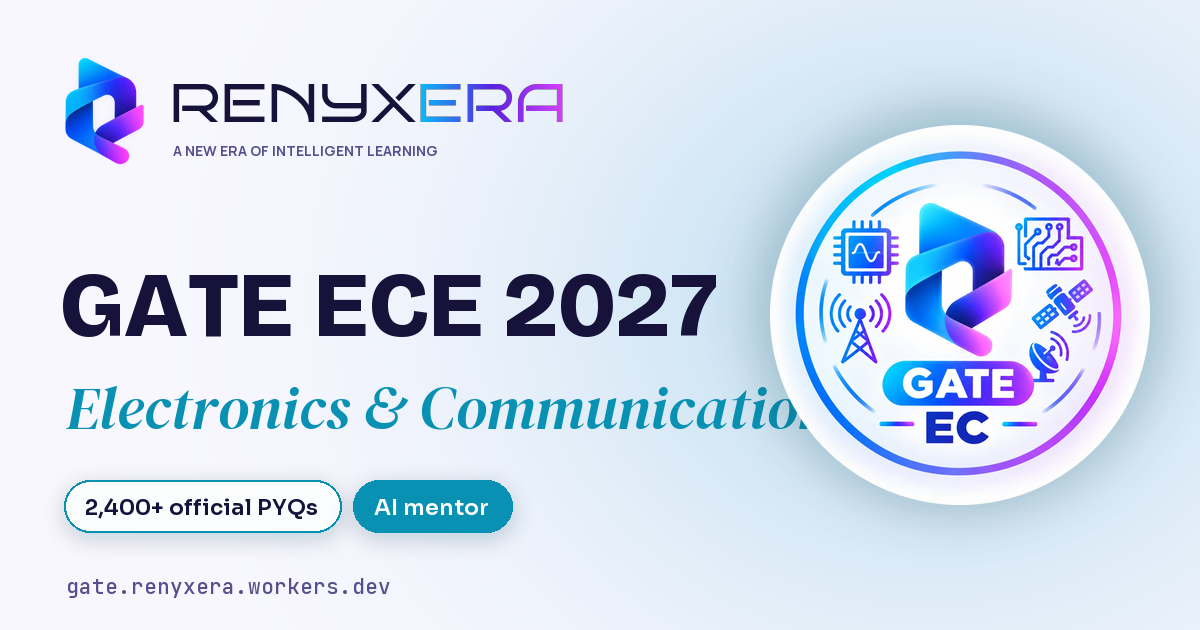
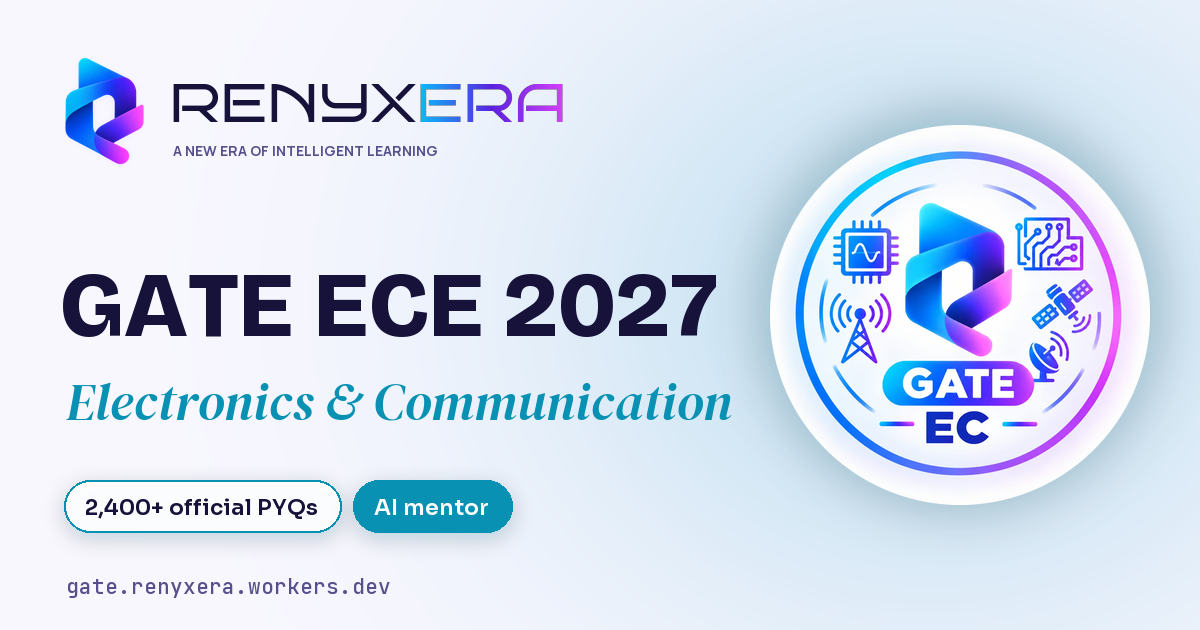
R18 U1: share card share-base + names, tidy stack deck, no navbar rings, dot-grid texture, UI upgrade plan

Changed region(s): [[0.0617, 0.6032, 0.6783, 0.6937]]

diff --git a/components/growth/share-card.tsx b/components/growth/share-card.tsx
@@ -14,8 +14,8 @@ import { track } from "@/lib/growth/track";
  * anywhere. The image is drawn in the browser, then shared as a file (or downloaded).
  */
 const BRANCH_SLUGS = [
-  { paper: "CS", slug: "gate-cse" }, { paper: "EC", slug: "gate-ece" }, { paper: "EE", slug: "gate-ee" },
-  { paper: "ME", slug: "gate-me" }, { paper: "CE", slug: "gate-ce" }, { paper: "DA", slug: "gate-da" },
+  { paper: "CS", slug: "gate-cse", short: "CSE" }, { paper: "EC", slug: "gate-ece", short: "ECE" }, { paper: "EE", slug: "gate-ee", short: "EE" },
+  { paper: "ME", slug: "gate-me", short: "ME" }, { paper: "CE", slug: "gate-ce", short: "Civil" }, { paper: "DA", slug: "gate-da", short: "DA" },
 ];
 
 export function ShareCard({ link, text }: { link: string; text: string }) {
@@ -49,42 +49,42 @@ export function ShareCard({ link, text }: { link: string; text: string }) {
     const custom = parts.length > 0 || (!!avatar && onAvatar);
     // The card is the student's own branch card; the other branches are shown as small badges.
     const img = new Image();
-    img.src = `/og/${mySlug}.png`;
+    img.src = `/og/share/${mySlug}.png`;
     await img.decode();
     const c = document.createElement("canvas");
     c.width = 1200; c.height = 630;
     const g = c.getContext("2d")!;
     g.drawImage(img, 0, 0, 1200, 630);
+    const fit = (s: string, max: number) => { let t = s; while (t.length > 1 && g.measureText(t).width > max) t = t.slice(0, -2) + "…"; return t; };
+    // The share base has an empty band from y=440 down: sender bar, then one footer band.
     if (custom) {
-      // glass sender bar: avatar, name, then username and ID
-      g.save(); g.shadowColor = "rgba(99,102,241,.35)"; g.shadowBlur = 24; g.shadowOffsetY = 8;
-      g.fillStyle = "rgba(255,255,255,.95)"; g.beginPath(); g.roundRect(64, 462, 660, 96, 48); g.fill(); g.restore();
-      g.lineWidth = 3; g.strokeStyle = "#6366f1"; g.beginPath(); g.roundRect(64, 462, 660, 96, 48); g.stroke();
+      g.save(); g.shadowColor = "rgba(22,18,58,.14)"; g.shadowBlur = 22; g.shadowOffsetY = 6;
+      g.fillStyle = "#ffffff"; g.beginPath(); g.roundRect(60, 448, 660, 84, 42); g.fill(); g.restore();
+      let x = 92;
       if (avatar && onAvatar) {
         const av = new Image(); av.src = avatar; await av.decode();
-        g.save(); g.beginPath(); g.arc(112, 510, 34, 0, Math.PI * 2); g.clip();
-        const m = Math.min(av.width, av.height); g.drawImage(av, (av.width - m) / 2, (av.height - m) / 2, m, m, 78, 476, 68, 68); g.restore();
+        g.save(); g.beginPath(); g.arc(102, 490, 30, 0, Math.PI * 2); g.clip();
+        const m = Math.min(av.width, av.height); g.drawImage(av, (av.width - m) / 2, (av.height - m) / 2, m, m, 72, 460, 60, 60); g.restore();
+        x = 148;
       }
-      const x = avatar ? 164 : 96;
-      g.fillStyle = "#16123a"; g.font = "700 28px Sora, Manrope, system-ui, sans-serif";
-      g.fillText((on.name && f.name.trim()) || "Shared on RENYXERA", x, 506);
-      g.fillStyle = "#58508c"; g.font = "500 21px Sora, Manrope, system-ui, sans-serif";
-      g.fillText(parts.filter((p) => p !== (on.name && f.name.trim())).join("  ·  ").slice(0, 46), x, 538);
+      const name = (on.name && f.name.trim()) || "";
+      const rest = parts.filter((p) => p !== name).join("   ");
+      g.fillStyle = "#16123a"; g.font = "700 26px Sora, Manrope, system-ui, sans-serif";
+      g.fillText(fit(name || rest || "Preparing on RENYXERA", 690 - x), x, rest && name ? 484 : 499);
+      if (rest && name) { g.fillStyle = "#58508c"; g.font = "500 19px Sora, Manrope, system-ui, sans-serif"; g.fillText(fit(rest, 690 - x), x, 512); }
     }
-    // Other branches strip (bottom right, under the big branch logo).
-    const others = BRANCH_SLUGS.filter((b) => b.slug !== mySlug);
-    g.fillStyle = "rgba(255,255,255,.88)"; g.beginPath(); g.roundRect(760, 532, 412, 82, 41); g.fill();
-    g.fillStyle = "#58508c"; g.font = "700 14px Sora, Manrope, system-ui, sans-serif"; g.fillText("ALSO ON RENYXERA", 784, 556);
-    for (let i = 0; i < others.length; i++) {
-      const im = new Image(); im.src = `/brand/branch/${others[i].slug}.png`;
-      try { await im.decode(); g.drawImage(im, 784 + i * 74, 562, 44, 44); } catch { /* skip */ }
-    }
-    // Referral line replaces the plain URL: the friend sees what they get.
-    g.fillStyle = "#faf8ff"; g.fillRect(56, 560, 690, 50);
-    g.fillStyle = "#6d28d9"; g.font = "700 20px Sora, Manrope, system-ui, sans-serif";
-    g.fillText(`Join free with my link — bonus AI help for both of us`, 66, 584);
-    g.fillStyle = "#58508c"; g.font = "500 17px 'JetBrains Mono', ui-monospace, monospace";
-    g.fillText(link.replace(/^https?:\/\//, "").slice(0, 52), 66, 606);
+    // Footer band: referral on the left, other branches as plain names on the right.
+    g.fillStyle = "rgba(255,255,255,.82)"; g.fillRect(0, 556, 1200, 74);
+    g.fillStyle = "rgba(22,18,58,.08)"; g.fillRect(0, 556, 1200, 1);
+    g.fillStyle = "#4c1d95"; g.font = "700 20px Sora, Manrope, system-ui, sans-serif";
+    g.fillText("Join free with my link: bonus AI help for both of us", 60, 586);
+    g.fillStyle = "#58508c"; g.font = "500 16px 'JetBrains Mono', ui-monospace, monospace";
+    g.fillText(fit(link.replace(/^https?:\/\//, ""), 600), 60, 611);
+    const others = BRANCH_SLUGS.filter((b) => b.slug !== mySlug).map((b) => b.short);
+    g.textAlign = "right";
+    g.fillStyle = "#58508c"; g.font = "600 15px Sora, Manrope, system-ui, sans-serif"; g.fillText("Also on RENYXERA", 1140, 586);
+    g.fillStyle = "#16123a"; g.font = "700 19px Sora, Manrope, system-ui, sans-serif"; g.fillText(others.join("  ·  "), 1140, 611);
+    g.textAlign = "left";
     return new Promise((r) => c.toBlob((b) => r(b), "image/png"));
   };
 

diff --git a/app/globals.css b/app/globals.css
@@ -1019,7 +1019,6 @@ html.has-pseudo-fullscreen, html.has-pseudo-fullscreen body { overflow: hidden; 
 @keyframes pro-spark { 0%, 100% { opacity: 0; transform: scale(0.4) rotate(0deg); } 45% { opacity: 1; transform: scale(1) rotate(45deg); } 70% { opacity: 0; transform: scale(0.6) rotate(90deg); } }
 
 /* Pro navbar: a flowing gold hairline under the bar and a shimmering PRO badge. */
-.pro-bar .nav-cluster, .pro-bar .main-dock { border-color: transparent !important; box-shadow: 0 0 0 2px #f5b83d, 0 0 0 3px rgba(146, 64, 14, 0.18), 0 8px 22px -12px rgba(217, 119, 6, 0.55); }
 @keyframes pro-bar-flow { to { background-position: 200% 0; } }
 .pro-badge {
   position: relative; overflow: hidden; display: inline-flex; align-items: center; padding: 1px 6px 1px 7px; border-radius: 6px;
@@ -1047,7 +1046,6 @@ html.has-pseudo-fullscreen, html.has-pseudo-fullscreen body { overflow: hidden; 
 .hero-avatar.tier-pro > .hero-avatar-ring { background: conic-gradient(from var(--ang), #fde68a, #f59e0b, #fff7c2, #d97706, #fbbf24, #fde68a) !important; opacity: 1 !important; }
 .hero-avatar.tier-plus > .hero-avatar-ring { background: conic-gradient(from var(--ang), #f9fafb, #9ca3af, #ffffff, #6b7280, #d1d5db, #f9fafb) !important; opacity: 1 !important; }
 .pro-crown.is-silver .pro-crown-svg { filter: drop-shadow(0 1px 0.5px rgba(55, 65, 81, 0.55)); }
-.plus-bar .nav-cluster, .plus-bar .main-dock { border-color: transparent !important; box-shadow: 0 0 0 2px #b8bec8, 0 0 0 3px rgba(55, 65, 81, 0.16), 0 8px 22px -12px rgba(71, 85, 105, 0.5); }
 @media (prefers-reduced-motion: reduce) {
   .avatar-fx.is-pro .avatar-ring, .pro-crown-glint, .pro-spark,  .pro-badge::after, .avatar-fx.is-plus .avatar-ring { animation: none; }
 }
@@ -1183,3 +1181,18 @@ mjx-container[display="true"] {
   color: color-mix(in srgb, var(--text-primary) 4%, transparent); pointer-events: none; white-space: nowrap; z-index: 0;
 }
 @media (prefers-reduced-motion: reduce) { .card-pastel, .card-pastel:hover { transition: none; transform: none; } }
+
+/* R18 owner feedback (27 Oct): no gold/silver rings on the navbar or avatar; the crown and the PRO/PLUS badge stay. */
+.avatar-fx.is-pro .avatar-ring, .avatar-fx.is-plus .avatar-ring { opacity: 0 !important; animation: none !important; }
+
+/* App-wide texture: a faint dot grid laid over the shell's gradient, fading towards the bottom. */
+.ambient-gradient::before {
+  content: ""; position: absolute; inset: 0; z-index: -1; pointer-events: none;
+  background-image: radial-gradient(color-mix(in srgb, var(--text-primary) 13%, transparent) 1px, transparent 1.4px);
+  background-size: 24px 24px;
+  mask-image: linear-gradient(to bottom, #000 0%, rgba(0,0,0,.55) 55%, transparent 100%);
+  -webkit-mask-image: linear-gradient(to bottom, #000 0%, rgba(0,0,0,.55) 55%, transparent 100%);
+}
+.dark .ambient-gradient::before { background-image: radial-gradient(color-mix(in srgb, white 9%, transparent) 1px, transparent 1.4px); }
+/* isolate makes the shell its own stacking context, so z-index -1 sits above its background but under all content */
+.ambient-gradient { isolation: isolate; }

diff --git a/components/dashboard/stack-cards.tsx b/components/dashboard/stack-cards.tsx
@@ -20,7 +20,9 @@ export function StackCards({ items, top = 76, step = 14 }: { items: ReactNode[];
   const reduce = useReducedMotion();
   const wrap = useRef<HTMLDivElement>(null);
   const refs = useRef<(HTMLDivElement | null)[]>([]);
-  const [scales, setScales] = useState<number[]>(() => items.map(() => 1));
+  // p per card: 0 = fully visible, 1 = fully covered by the next card.
+  const [prog, setProg] = useState<number[]>(() => items.map(() => 0));
+  const [heights, setHeights] = useState<number[]>(() => items.map(() => 0));
 
   useEffect(() => {
     if (reduce) return;
@@ -31,13 +33,12 @@ export function StackCards({ items, top = 76, step = 14 }: { items: ReactNode[];
       const els = refs.current;
       const next = els.map((el, i) => {
         const nxt = els[i + 1];
-        if (!el || !nxt) return 1;
+        if (!el || !nxt) return 0;
         const a = el.getBoundingClientRect(), b = nxt.getBoundingClientRect();
-        // 0 when the next card is a card-height away, 1 when it has fully covered this one.
-        const p = Math.min(1, Math.max(0, (a.bottom - b.top) / Math.max(1, a.height)));
-        return 1 - 0.1 * p;
+        return Math.min(1, Math.max(0, (a.bottom - b.top) / Math.max(1, a.height)));
       });
-      setScales((old) => (old.every((v, i) => Math.abs(v - next[i]) < 0.002) ? old : next));
+      setProg((old) => (old.every((v, i) => Math.abs(v - next[i]) < 0.003) ? old : next));
+      setHeights(els.map((el) => el?.offsetHeight ?? 0));
     };
     const on = () => { if (!raf) raf = requestAnimationFrame(update); };
     update();
@@ -51,10 +52,18 @@ export function StackCards({ items, top = 76, step = 14 }: { items: ReactNode[];
     <div ref={wrap} className="relative">
       {items.map((it, i) => (
         <div key={i} ref={(el) => { refs.current[i] = el; }} className="sticky pb-6" style={{ top: top + i * step, zIndex: i + 1 }}>
-          <div className="origin-top transition-[filter] duration-200 will-change-transform"
-            style={{ transform: `scale(${scales[i] ?? 1})`, filter: `brightness(${0.85 + 0.15 * ((scales[i] ?? 1) - 0.9) / 0.1})` }}>
-            {it}
-          </div>
+          {(() => {
+            const p = prog[i] ?? 0;
+            // Covered cards shrink, and are clipped to a thin top edge so only a tidy lip peeks out
+            // above the next card (no half-hidden content showing below it).
+            const keep = Math.max(step + 10, (heights[i] || 0) * (1 - p));
+            return (
+              <div className="origin-top will-change-transform"
+                style={{ transform: `scale(${1 - 0.06 * p})`, clipPath: p > 0 ? `inset(0 0 calc(100% - ${keep}px) 0 round var(--card-radius))` : undefined }}>
+                <div style={{ filter: p > 0 ? `brightness(${1 - 0.08 * p}) saturate(${1 - 0.3 * p})` : undefined }}>{it}</div>
+              </div>
+            );
+          })()}
         </div>
       ))}
       {/* room for the last card to finish pinning */}

diff --git a/scripts/make-og.py b/scripts/make-og.py
@@ -84,23 +84,35 @@ def pill(im, accent, a, b):
         im.alpha_composite(ov); d = ImageDraw.Draw(im)
         d.text((x + w // 2, y + 27), text, font=f, fill="white" if solid else (22, 18, 58), anchor="mm"); x += w + 12
 
-def card(slug, title, sub, logo, accent):
+def fit_serif(d, text, size, max_w):
+    # shrink the branch name until it ends before the round branch logo
+    while size > 30:
+        f = ImageFont.truetype(FD + "DMSerif.ttf", size)
+        if d.textlength(text, font=f) <= max_w: return f
+        size -= 2
+    return ImageFont.truetype(FD + "DMSerif.ttf", size)
+
+def card(slug, title, sub, logo, accent, share=False):
     im = background(accent).convert("RGBA")
     d = ImageDraw.Draw(im)
     im.alpha_composite(lock, (64, 56))
     d.text((60, 250), title, font=brico(92, 800), fill=(22, 18, 58))
-    d.text((66, 366), sub, font=ImageFont.truetype(FD + "DMSerif.ttf", 60), fill=hexrgb(accent))
-    pill(im, accent, "2,400+ official PYQs", "AI mentor")
-    d = ImageDraw.Draw(im)
-    d.text((66, 572), "gate.renyxera.workers.dev", font=mono(21, 500), fill=(88, 80, 140))
+    d.text((66, 366), sub, font=fit_serif(d, sub, 60, 680), fill=hexrgb(accent))
+    if not share:
+        # the share variant leaves the bottom free for the sender bar and referral line
+        pill(im, accent, "2,400+ official PYQs", "AI mentor")
+        d = ImageDraw.Draw(im)
+        d.text((66, 572), "gate.renyxera.workers.dev", font=mono(21, 500), fill=(88, 80, 140))
     if logo:
         c = circle(f"logo/{logo}.jpeg", 380)
         sh = Image.new("RGBA", (W, H), (0, 0, 0, 0)); ImageDraw.Draw(sh).ellipse((770, 120, 1150, 500), fill=hexrgb(accent) + (90,))
         im.alpha_composite(sh.filter(ImageFilter.GaussianBlur(28))); im.alpha_composite(c, (770, 125))
-    im.convert("RGB").save(f"public/og/{slug}.png", optimize=True)
+    os.makedirs("public/og/share", exist_ok=True)
+    im.convert("RGB").save(f"public/og/share/{slug}.png" if share else f"public/og/{slug}.png", optimize=True)
 for slug, (t, s, lg, ac) in BR.items():
     try:
         card(slug, t, s, lg, ac)
+        card(slug, t, s, lg, ac, share=True)
     except OSError as e:
         print("skipped (file open elsewhere?):", slug, e)
     circle(f"logo/{lg}.jpeg", 512).save(f"public/brand/branch/{slug}.png", optimize=True)

diff --git a/docs/roadmap/R18-UI-UPGRADE-PLAN.md b/docs/roadmap/R18-UI-UPGRADE-PLAN.md
@@ -1,0 +1,81 @@
+# R18 · Full UI/UX upgrade plan (27 Oct 2026)
+
+Owner brief: the UI looks ugly; fix stacking, share card, dashboard first experience; texture background with the gradient;
+no gold/silver navbar effects (crown + PRO badge only); new styles (tab windows, stacks and more) across every screen.
+
+## Research summary
+
+Sources checked: Awwwards/Godly/Dribbble trend round-ups for 2026, EdTech dashboard work on Dribbble/Contra.
+Mobbin and Refero need a login to browse, so they were not used directly.
+
+- Bento grids are now the default for dashboards and feature sections, with 6 to 9 tiles as a sensible ceiling
+  ([b12](https://www.b12.io/resource-center/website-design/web-design-guide-bento-grids-and-kinetic-typography/), [line25](https://line25.com/articles/web-design-trends-2026/)).
+- Texture is back (grain, dot grids) as a quiet layer behind key sections, not a full-page effect ([theplusaddons](https://theplusaddons.com/blog/web-design-trends-2026/)).
+- Neo-brutalism survives only as an accent, for example one hard-shadow call to action ([bubble](https://bubble.io/blog/web-design-trends/)).
+- EdTech dashboards that work put weekly progress first and tasks below, and fight clutter with hierarchy, not more cards
+  ([Contra](https://contra.com/p/2qBqQgWv-intuitive-e-learning-dashboard-design-for-enhanced-engagement)).
+- Competitor Swaseekh: the stacked feature deck is its strongest moment; everything else is a plain list.
+
+## Design direction: "exam desk"
+
+The subject is a student's desk the night before an exam: graph paper, highlighter tints, index-card tabs.
+That gives a distinct look that isn't the generic SaaS card kit.
+
+| Token | Value | Role |
+|---|---|---|
+| Canvas | `#faf8f5` / dark `#0e0d14` | page, with a faint 24 px dot grid (graph paper) |
+| Ink | `#16123a` | text, solid pills |
+| Violet | `#6d28d9` | the one brand accent: primary actions, active tab |
+| Highlighters | mint, rose, peach, peri, lilac, butter, sky | subject and feature tints only, never for chrome |
+| Radius | 28 / 18 / 999 | big surfaces / inner panels / pills: three steps, chosen by hierarchy |
+
+Type: Bricolage Grotesque for display numbers and headings, Manrope for body, no monospace for labels.
+Labels in sentence case, no tracked all-caps eyebrows (replace the current `section-label` style).
+
+## Components to add
+
+1. **Folder tabs (the "tab window")**: index-card tabs that join the panel below them; the active tab
+   takes the panel colour. Use on Analytics (Overview / Subjects / Mistakes), Profile (Account / Plan / Telegram),
+   Mocks (Upcoming / Past), Browse subjects.
+2. **Segmented control**: pill track with a sliding thumb (motion `layoutId`) for short switches: 3/5/7 days, light/dark, PYQ year range.
+3. **Stack deck** (done, now clipped to tidy lips): only on the dashboard toolkit and the landing page.
+4. **Bento grid v2**: one 2x2 hero tile + up to 6 tiles; each tile shows a live number, not a paragraph.
+5. **Hard-shadow CTA**: one per screen, the main action (ink border, 4 px offset shadow, presses down on click).
+6. **Command bar**: the navbar search becomes a ⌘K palette (jump to topic, mock, AI mentor).
+7. **Toasts and confirmations** with the same verb as the button.
+
+## Navbar and profile
+
+- Navbar: logo left; centre becomes folder tabs for the 4 main areas (Practise, Mocks, Mentor, Progress);
+  right side keeps search, branch chip and avatar; the 6 small icons move into the avatar menu and the ⌘K palette.
+- No gold/silver rings (done); Pro shows the crown and PRO badge only.
+- Profile: a header card (avatar, name, branch, plan) and folder tabs below instead of one long scroll.
+
+## Dashboard first experience
+
+Problem today: the hero and the "Find your starting point" card both ask for the same 20-question test,
+and a new user sees empty rings (0%, 0%, 0d) before anything.
+
+New order for a new user:
+1. Hero: greeting, days to GATE, one hard-shadow button "Take the 20-question start test", and the goal picker inline.
+   No empty rings; instead a preview of what the dashboard will show after the test.
+2. Toolkit stack deck.
+3. Telegram rooms.
+
+For a returning user: hero with next action and real rings → Today strip (tasks + timer as one card) → bento → deck.
+
+## Motion
+
+One orchestrated moment per screen (the hero numbers count up once). Everything else answers an action:
+tab switch slides the indicator, cards press down on tap, deck clips on scroll. Reduced motion: none of it.
+
+## Rollout (each step: desktop + mobile, light + dark checked, then pushed)
+
+| Step | Scope |
+|---|---|
+| U1 | Done 27 Oct: share card, stack deck, navbar rings, dot-grid texture |
+| U2 | Tokens + `FolderTabs`, `Segmented`, `HardButton` components; replace all-caps labels |
+| U3 | Dashboard first experience (above) |
+| U4 | Navbar + ⌘K palette + profile tabs |
+| U5 | Analytics, Mocks, Browse, AI Mentor on the new components |
+| U6 | Exam engine chrome, results, landing page, accessibility audit (WCAG AA contrast, focus rings) |
